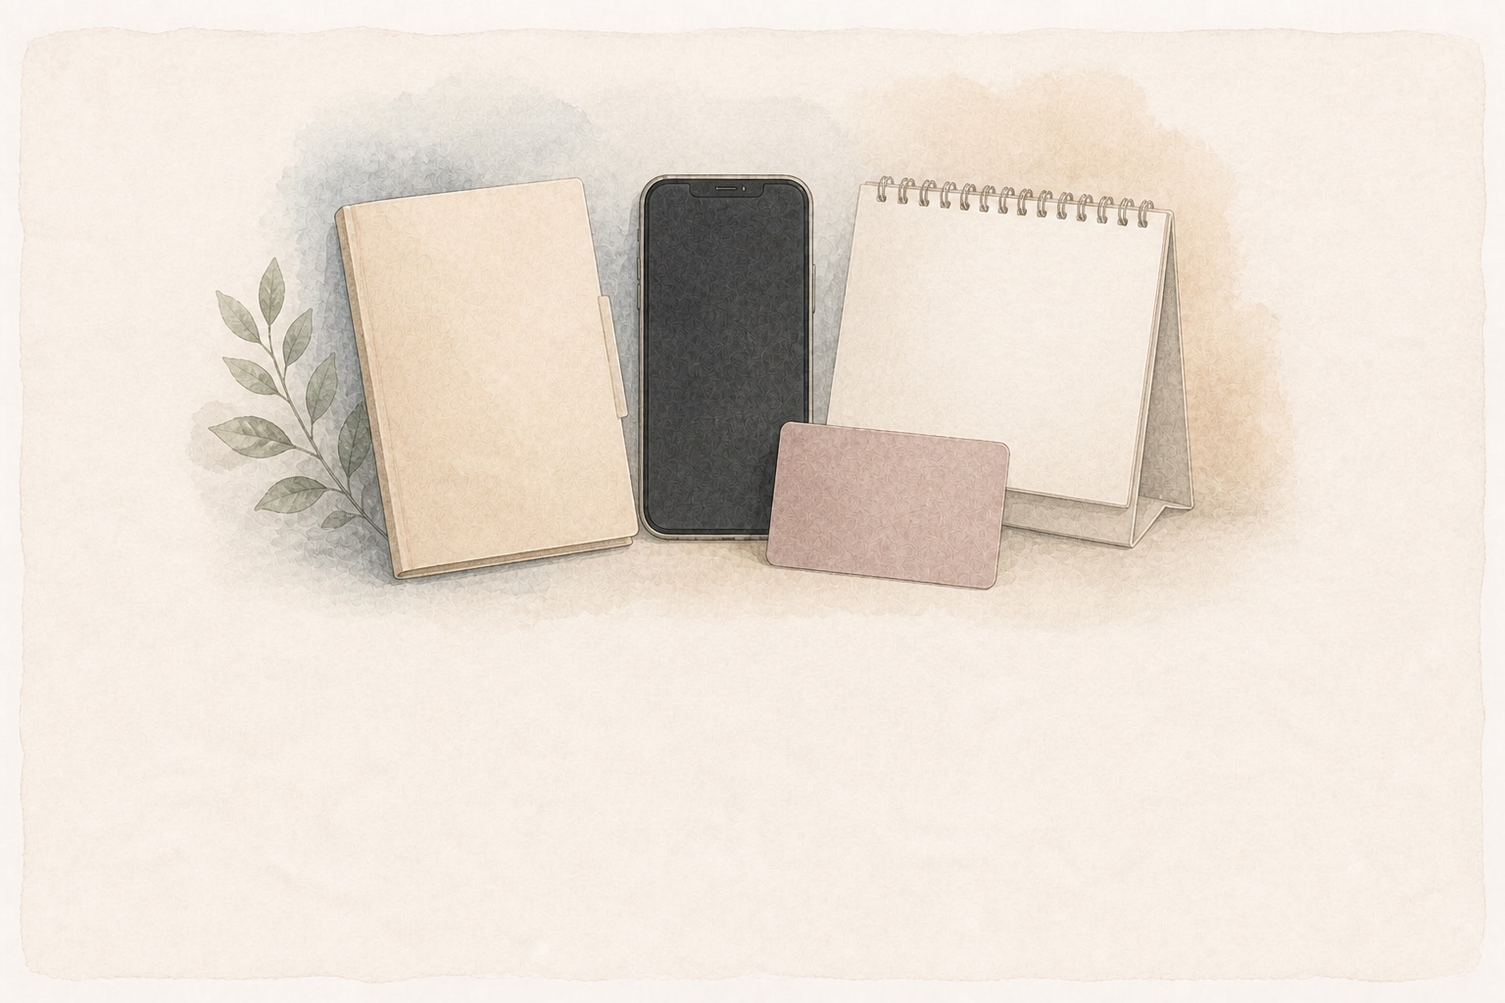
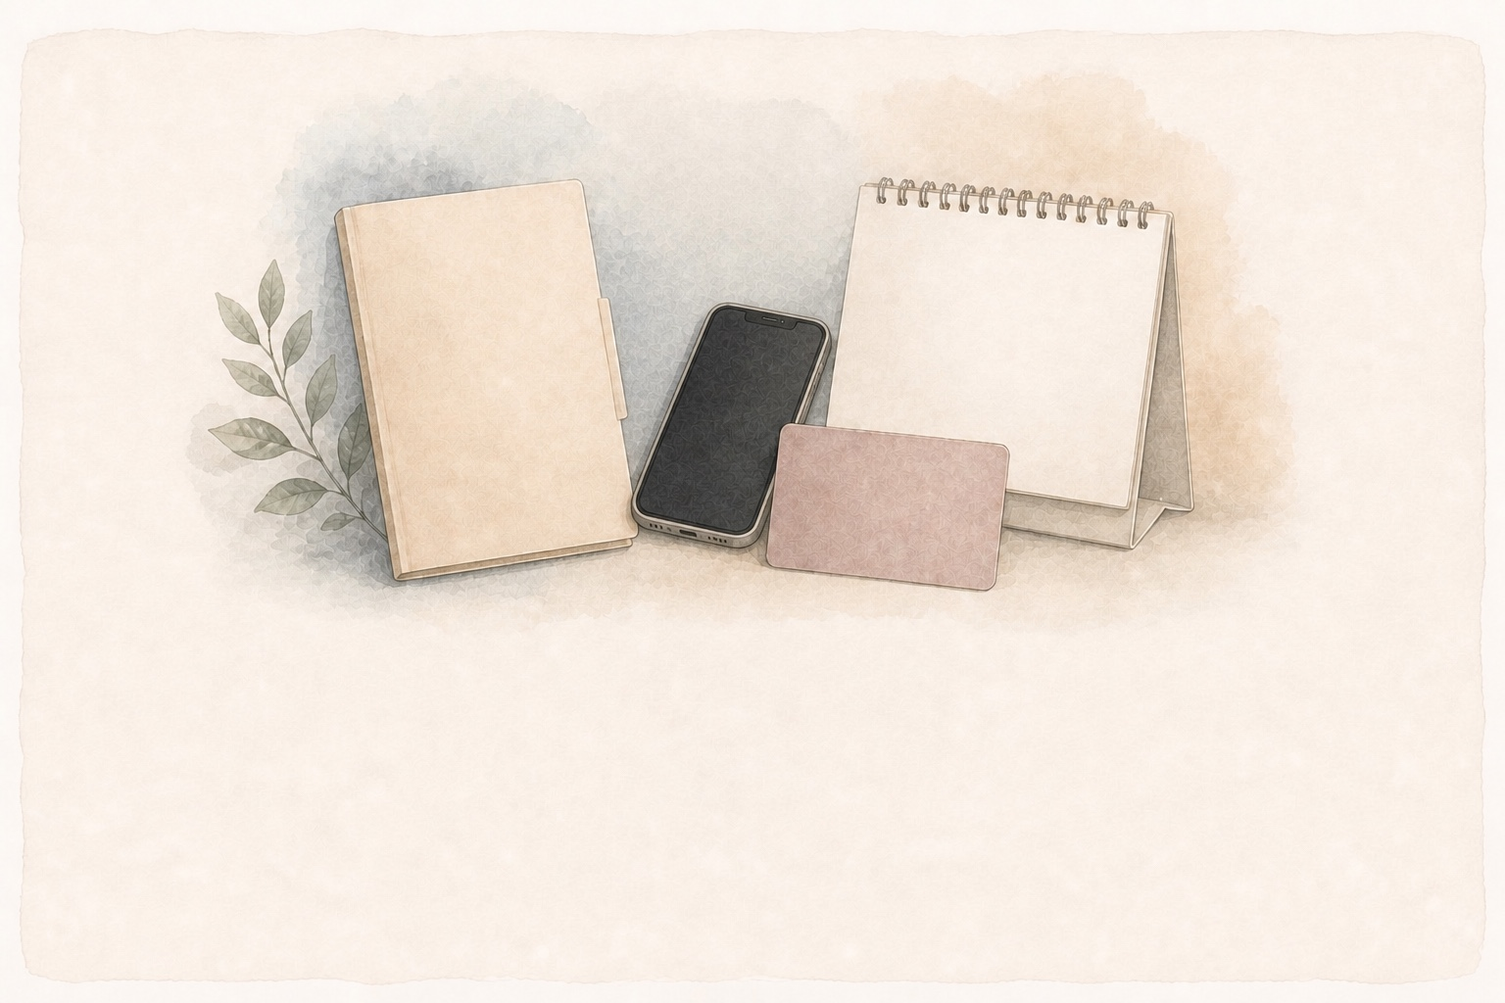
fix: replace audited lesson artwork

diff --git a/harness/tasks/2026-08-26-visual-audit-remediation.md b/harness/tasks/2026-08-26-visual-audit-remediation.md
@@ -1,0 +1,129 @@
+# Task / Result Packet
+
+## Task
+
+**Название:** Исправить все замечания визуального аудита runtime-изображений
+
+**Владелец:** Codex
+
+**Статус:** completed
+
+**Цель:** Заменить 15 изображений с ненулевой критичностью из визуального аудита так, чтобы каждый master/runtime asset сохранял канонический момент, `living_archive_v1`, D-F identity Саши и проходил повторную проверку физики, анатомии, raster-ограничений и crop.
+
+**Входные источники:**
+
+- `AGENTS.md`, `harness/PROJECT_STATE.md`, `harness/RISK_POLICY.md`;
+- `docs/DECISIONS.md`, `docs/DESIGN_SYSTEM.md`;
+- `harness/tasks/2026-08-24-remaining-section-image-coverage.md`;
+- соответствующие `content/sections/level-*/section-*.md`;
+- `src/assets/living-archive/character/sasha-df-anchor.png`;
+- story style reference `src/assets/living-archive/l01-s01/story-arrival.jpg`;
+- analysis style reference `src/assets/living-archive/l01-s01/analysis-hero-1536-v1.jpg`;
+- индивидуальный визуальный аудит 44 runtime-файлов от 26 августа 2026 года.
+
+**Write set:**
+
+- этот task packet;
+- master/runtime пары `story-hero-{1536,1200}-v1.jpg` для `l01-s02`, `l02-s01`, `l02-s02`, `l02-s03`, `l02-s04`, `l03-s03`, `l04-s01`, `l04-s02`, `l04-s03`, `l04-s04`, `l05-s03`, `l06-s01`;
+- master/runtime пары `analysis-hero-{1536,1200}-v1.jpg` для `l02-s02`, `l04-s02`, `l05-s02`;
+- `src/visuals/sectionVisuals.ts` только если повторный crop QA докажет необходимость изменения focal metadata.
+
+**Вне scope:**
+
+- остальные 29 прошедших аудит runtime-изображений и их masters;
+- тексты Section, книга, девять звеньев, alt-тексты и пользовательская модель;
+- компоненты, маршруты, backend, API, зависимости и инфраструктура;
+- публикация, `git add`, commit и push.
+
+**Риски:**
+
+- точечное исправление может изменить лицо, возраст, одежду или пластику Саши;
+- генератор может устранить один дефект и добавить другой: лишние пальцы, парящие предметы, сломанные перспективу или свет;
+- raster может придумать текст, цифры, даты, суммы, бренды, UI, реквизиты, диагноз или доказательство результата;
+- сюжетный объект может уйти из central mobile-safe зоны или из catalog crop первой Section уровня;
+- электрический реквизит L02-S02 должен быть внутренне совместимым и соответствовать российскому/европейскому бытовому контексту;
+- второстепенные персонажи не должны терять автономию или становиться авторами решения вместо канонического персонажа.
+
+**План исправлений:**
+
+| Asset | Исправление |
+|---|---|
+| `l01-s02/story` | Телефон явно лежит в руке или на столе; другая рука останавливается над экраном, без пересечения с торсом. |
+| `l02-s01/story` | У рулетки две физически ясные точки удержания; лента не входит в волосы; действие сохраняется в catalog crop. |
+| `l02-s02/story` | Отдельный штекер лампы и ясная связь с фильтром без искр/перегрева. |
+| `l02-s02/analysis` | Euro/Schuko-розетки и отдельный штекер лампы; два провода визуально различимы. |
+| `l02-s03/story` | Стеллаж остаётся маленьким фоновым макетом/эскизом, а не выглядит совершённой покупкой. |
+| `l02-s04/story` | У Миши виден недвусмысленный жест паузы перед передачей данных; носители нечитабельны. |
+| `l03-s03/story` | Усилить осторожное недоверие и визуально развести непривычное письмо с независимо проверяемым каналом. |
+| `l04-s01/story` | Поднять два листа вариантов в верхнюю central-safe зону, сохранив карту, лицо и дорожную сумку в catalog crop. |
+| `l04-s02/story` | Сделать обе кисти Миши анатомически ясными и естественно удерживающими карандаш. |
+| `l04-s02/analysis` | Телефон явно лежит или устойчиво прислонён к папке; контактные тени показывают опору. |
+| `l04-s03/story` | Очки целиком лежат на столе либо ясно удерживаются за сложенную дужку без пересечения с пальцами. |
+| `l04-s04/story` | Две тонкие различимые папки/конверта и по одной пустой квитанции вместо бумажных брикетов. |
+| `l05-s02/analysis` | Линза лупы прозрачна, с корректным бликом и слабым преломлением фона. |
+| `l05-s03/story` | Лера визуально владеет решением; жест Саши однозначно вопросительный. |
+| `l06-s01/story` | Поднять разделённые документы в central-safe зону, чтобы они оставались различимы в catalog crop уровня VI. |
+
+**Общие инварианты:**
+
+- один built-in `image_gen` edit call на один asset; исходный master — edit target;
+- для story: D-F anchor как отдельный identity reference, Саша с коротким каштановым бобом и светло-голубым свитером;
+- сохранить формат `3:2`, акварель и графит на тёплой бумаге, приглушённые blue/sage/terracotta/graphite, мягкий бытовой свет;
+- ключевые лица, руки и предметы — в центральных 42% ширины; нижние 36–40% спокойные под HTML-заголовок;
+- никакого читаемого текста, цифр, дат, сумм, процентов, брендов, UI, watermark и не показанного в истории результата;
+- master `1536 × 1024`, runtime export `1200 × 800`.
+
+**План проверки:**
+
+- каждый новый master и runtime открыть отдельно в полном разрешении;
+- повторить исходный аудит: анатомия, физика предметов, перспектива, масштаб, свет/тени, случайные детали, crop, сюжет и настроение;
+- проверить 15 master/runtime пар на размеры, формат и отсутствие повреждений;
+- проверить Story/Analysis routes затронутых Section и catalog crops L02-S01, L04-S01, L06-S01 на mobile/desktop;
+- `npm run typecheck`, `npm run build`;
+- `git diff --check`, `git diff --cached --check`;
+- назвать результат локальным visual/content-integrity pass, не release-pass.
+
+## Result
+
+**Итог:** Все 15 изображений с ненулевой критичностью заменены: 12 story и 3 analysis. Для каждого сохранены generation master `1536 × 1024` и runtime export `1200 × 800`, всего 30 JPEG. Исправлены исходные замечания и найденные на повторном проходе остаточные дефекты: случайный круг на ноутбуке L02-S02, возрастной drift Леры L02-S03, коробки с неканоническим подтекстом L03-S03 и уход второго блока документов из mobile crop L06-S01. `sectionVisuals.ts` не менялся: существующие focal metadata прошли повторный crop QA.
+
+**Файлы:** Изменены только перечисленные в write set 30 JPEG и этот task packet. Runtime-импорты, alt-тексты, Section-контент, компоненты и маршруты не менялись.
+
+**Проверки:**
+
+- все 15 masters и все 15 runtime exports открыты отдельно в полном разрешении; повторно проверены анатомия, физика контактов, перспектива, масштаб, свет/тени, случайные символы, сюжетная ясность, настроение и title-safe зона;
+- `file` подтвердил для всех 30 файлов baseline RGB JPEG без повреждений: masters `1536 × 1024`, runtime `1200 × 800`;
+- в локальном демо проверены все 15 затронутых Story/Analysis routes при `390 × 844`: каждый hero загрузился полностью с natural size `1200 × 800`, правильным H1/alt и без framework overlay;
+- отдельный visual pass пройден для широкого трёхперсонажного L05-S03 и для длинного заголовка L06-S01 на mobile и desktop `1280 × 720`;
+- catalog crops L02-S01, L04-S01 и L06-S01 проверены в реальном 16:7 компоненте: ключевые лица, руки и предметы остаются различимы; после финального retry L06-S01 оба документных блока целиком видны и на mobile;
+- проверен переход `catalog → L06-S01 story → catalog`; URL, page title, H1, навигация и DOM-содержимое корректны;
+- browser console: релевантных `error`/`warn` нет;
+- `npm run typecheck` — PASS;
+- `npm run build` — PASS; остаётся только штатное предупреждение Vite о размере общего JS chunk, не связанное с image-only изменением;
+- `git diff --check` и `git diff --cached --check` — PASS.
+
+**Финальный prompt set:** Для всех assets использован встроенный ImageGen в режиме `precise-object-edit`, отдельным вызовом на каждый asset. Общий scaffold: `Image 1` — точный edit target; для story `Image 2` — обязательный D-F identity anchor, `Image 3` — story material/style reference; для analysis — analysis composition/material references. Инварианты: `living_archive_v1`, исходная сцена и identities, естественная анатомия и опора предметов, формат 3:2, central mobile-safe зона, спокойные нижние 36–40% под HTML-заголовок; запрет на читаемый raster text, цифры, даты, суммы, проценты, бренды, UI, watermark и непоказанный результат. Уникальные финальные запросы и принятые source PNG:
+
+| Asset | Финальный primary request | Принятый ImageGen output ID |
+|---|---|---|
+| `l01-s02/story` | Телефон физически удерживается; отдельная открытая ладонь останавливается над экраном без пересечения с торсом. | `exec-9d2fbbdb-6cb8-424f-8eda-768302dc5392.png` |
+| `l02-s01/story` | Тамара удерживает корпус рулетки у одного косяка, крючок закреплён на противоположном; лента проходит выше лиц и волос. | `exec-16562963-f21f-4748-a6db-2f4d991dd992.png` |
+| `l02-s02/story` | Отдельные фильтр, его вилка, лампа и ноутбук; затем локально удалён случайный серый круг с крышки ноутбука. | `exec-3db949e3-0d9c-47c4-8d89-955694f330fc.png` |
+| `l02-s02/analysis` | Четыре Schuko-розетки; кабель фильтра и отдельная вилка лампы читаются как разные физические цепочки. | `exec-6e2e7e4e-4802-4a7d-a35a-4e87800e9c90.png` |
+| `l02-s03/story` | Стеллаж остаётся маленьким эскизом; затем Лера возвращена к каноническому молодому возрасту и волосам до плеч. | `exec-842a9504-10cf-464a-b17f-1821549bbbf5.png` |
+| `l02-s04/story` | Телефон лежит на столе; одна ладонь Миши явно останавливается над ним, другая держит пустую выписку. | `exec-7a7ad964-545b-4c51-9bf7-48c2e8578ced.png` |
+| `l03-s03/story` | Осторожно-недоверчивое выражение; телефон отделён от пустых письма и конверта; коробки заменены нейтральной полкой с растением. | `exec-291b1647-edc6-4062-b050-2a085c23bc7a.png` |
+| `l04-s01/story` | Два пустых варианта подняты в руку рядом с картой так, чтобы лицо, варианты и дорожная сумка переживали catalog crop. | `exec-15380adf-b1d3-4081-a57e-c2158bd14bf0.png` |
+| `l04-s02/story` | Одна кисть Миши естественно держит карандаш tripod grip, вторая раскрыта ладонью вверх; обе с ясными запястьями и пальцами. | `exec-f5ddfe75-8537-43ec-a628-64cea16f71eb.png` |
+| `l04-s02/analysis` | Телефон физически поддержан плоскостью и отделён от карточки; добавлена согласованная контактная тень. | `exec-5bf78bc3-9e94-4c39-acd3-9d298690c137.png` |
+| `l04-s03/story` | Одна цельная сложенная пара очков лежит на полке с опорой и тенью, не пересекает кисть. | `exec-4d8e3fd6-d33b-403d-8f7e-718c1862c0ae.png` |
+| `l04-s04/story` | Два бумажных брикета заменены двумя тонкими раздельными папками и одной пустой квитанцией у каждой. | `exec-9756a9e0-f78b-42e2-acd1-0e4e129568b7.png` |
+| `l05-s02/analysis` | Только линза лупы стала прозрачной: фон виден с лёгким преломлением, бликом и корректной тенью. | `exec-63ede018-af8c-4731-b0a8-5a69317edb11.png` |
+| `l05-s03/story` | Лера указывает от своего листа к условиям Миши и владеет решением; Саша делает небольшой вопросительный жест. | `exec-0d40bf8a-693f-401a-9392-c62784c52a3f.png` |
+| `l06-s01/story` | Правый документный блок удалён с края и пересобран как одна тонкая папка с одной пустой квитанцией слева от центральной группы, целиком внутри mobile crop. | `exec-fd3ed7af-bdce-4df5-a1e0-6b99f69a4b7e.png` |
+
+**Источники и даты:** Канонические project sources проверены 26 августа 2026 года; внешние утверждения не добавлялись. Все принятые финальные PNG сохранены встроенным ImageGen, затем экспортированы в project-bound JPEG-пары.
+
+**Оставшиеся риски:** Блокирующих дефектов в локальном visual/content-integrity pass не выявлено. Акварель сохраняет допустимую мягкость мелких пальцев и контуров при сильном уменьшении; фактическая интерполяция может незначительно отличаться на других устройствах и браузерах. Это не полный release-pass.
+
+**Следующий шаг:** Owner review изменённых assets; публикация, commit и push не выполнялись.
